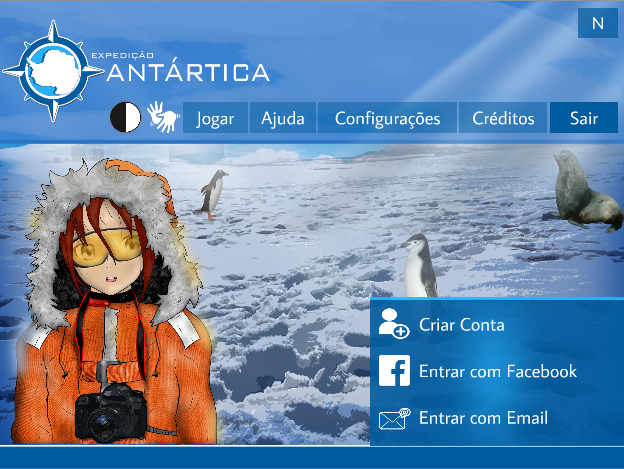
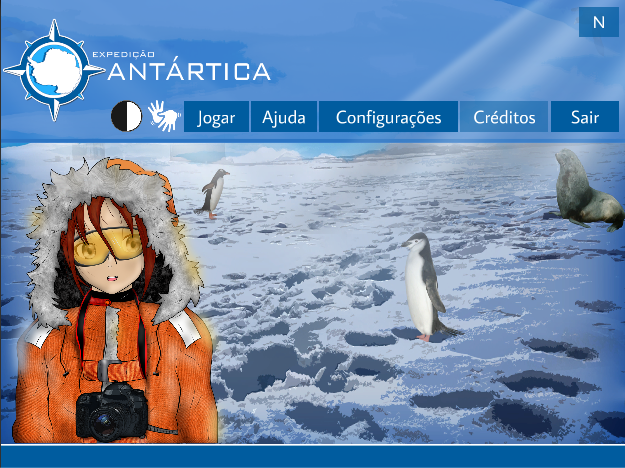
update prejogo

diff --git a/pre-jogo/prejogo.rst b/pre-jogo/prejogo.rst
@@ -33,13 +33,19 @@ Menu principal
 
 O menu principal contém o menu de ajudas e de configurações. Temos as seguintes classes .cs principais: (a) MainMenu, (b) OptionMenu, (c) HelpMenu
 
-(a) Responsável pelo controle dos botões da interface de menu principal (vide figura :numref:`figmenuprincipal`). É responsável também pelo controle da barra de carregamento para o jogo.
+(a) Responsável pelo controle dos botões da interface de menu principal (vide figura :numref:`figmenuprincipal`). É responsável também pelo controle da barra de carregamento para o jogo (figura :numref:`figmenuprincipal1`).
 
 .. _figmenuprincipal:
 .. figure:: ./assets/menuprincipal.png
    :align: center
    
    : Interface do menu principal.
+
+.. _figmenuprincipal1:
+.. figure:: ./assets/menuprincipal.png
+   :align: center
+   
+   : Interface do menu principal com barra de carregamento no canto inferior direito.
 
 (b) Responsável pelas opções do jogo. Que são: controle de volume, resolução, qualidade dos gráficos, leitura de tela e alto contraste. A interface pode ser vista na figura :numref:`figmenuopcoes`. Os parametos de acessibilidade são **estáticos** (classe Parameters.cs, será explorada mais pra frente), e então são controlados através de *Toggles*. O volume encontra-se alocado dentro de um *mixer* (ainda com apenas um canal master) e controlado através de um *Slider*. Para a qualidade de gráficos e resolução, temos uma classe auxiliar ResolutionQualityController.cs que cuida dessas alterações através de um *DropDown*.
 
